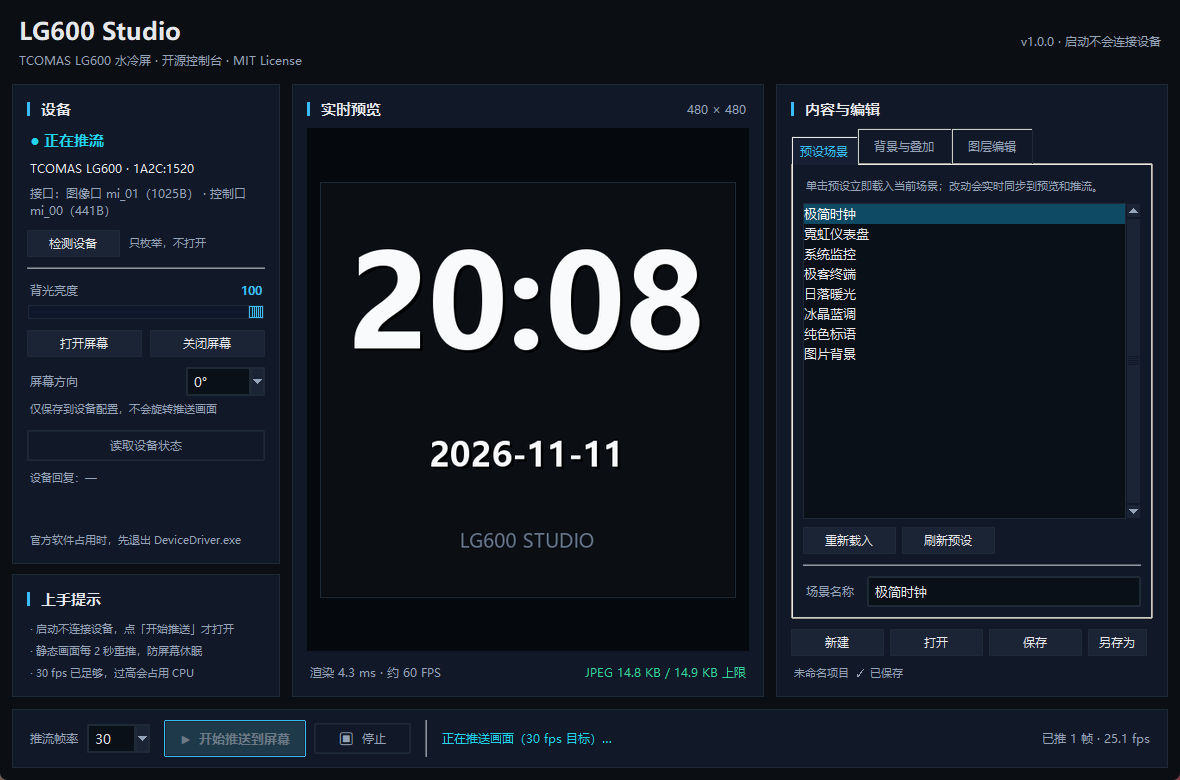
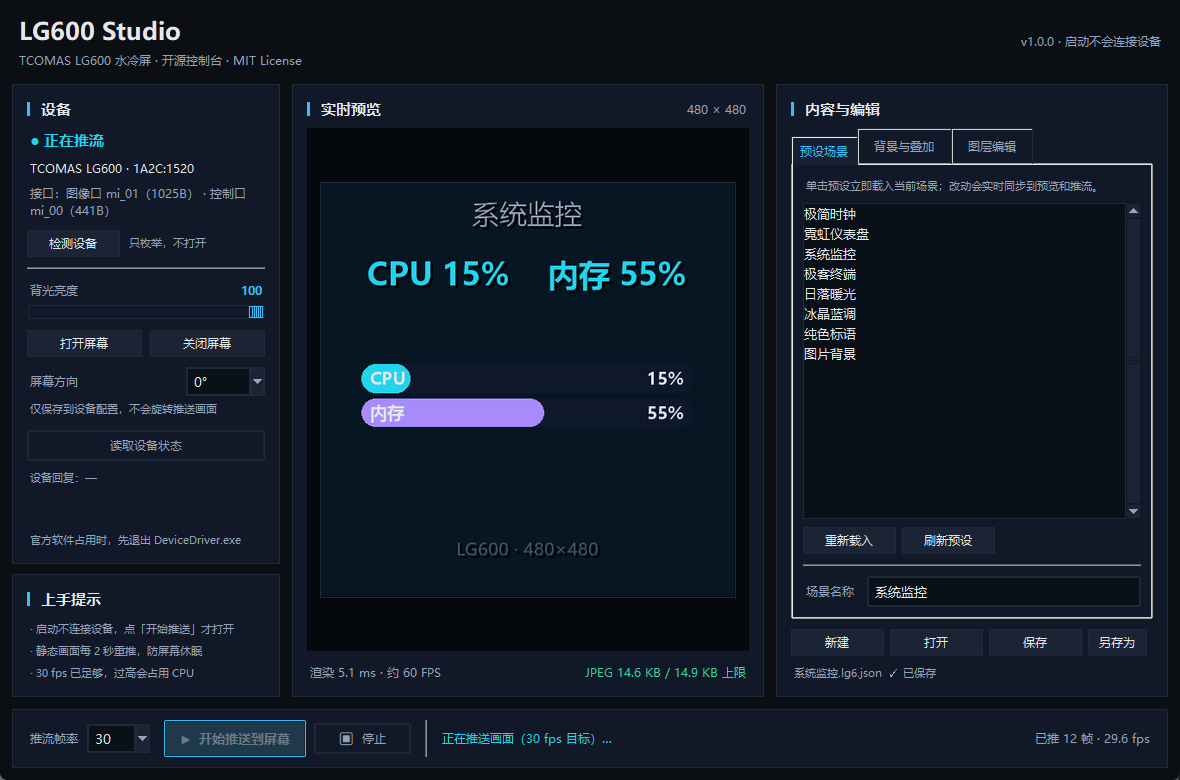
docs: 自带协议文档、示例工程与硬件自检脚本
- docs/PROTOCOL.md：把 HID 协议逆向记录搬进仓库，不需要外部笔记
- examples/：极简时钟、系统监控两个 .lg6.json 示例工程
- tools/check_device.py：无 GUI 的硬件自检（枚举 / 查询 / 推色块）
- README：exe 体积与路径、更多玩法、目录结构更新
- app.py：实际 fps 按时间窗统计，不再用启动至今的平均值
- device.py：帧恒定 15 包（不足补 0x00，与官方软件一致）；JPEG 质量下限扩到 5
- tests/test_device.py：协议分帧与编码的 10 项回归测试

diff --git a/tools/check_device.py b/tools/check_device.py
@@ -1,0 +1,65 @@
+"""Quick hardware check for the LG600 panel (no GUI, prints Chinese results).
+
+Usage::
+
+    python tools/check_device.py            # 只读检查（枚举 + 查询设置）
+    python tools/check_device.py --push 4   # 额外推 4 秒纯色测试图
+
+Run it with the official TCOMAS software closed.
+"""
+
+from __future__ import annotations
+
+import argparse
+import sys
+import time
+from pathlib import Path
+
+sys.path.insert(0, str(Path(__file__).resolve().parents[1]))
+
+from PIL import Image  # noqa: E402
+
+from lg6studio import device  # noqa: E402
+
+
+def main() -> int:
+    parser = argparse.ArgumentParser(description="LG600 屏幕硬件自检")
+    parser.add_argument("--push", type=float, default=0.0, help="推纯色测试图的秒数（0 = 不推）")
+    args = parser.parse_args()
+
+    collections = device.enumerate_devices()
+    if not collections:
+        print("未找到 TCOMAS LG600（1A2C:1520）。检查 USB 连接，或确认设备没被官方软件独占。")
+        return 1
+    for collection in collections:
+        print(
+            f"找到接口 {collection['interface']:<6} 角色 {collection['role']:<8} "
+            f"输出报文 {collection['output_len']} 字节"
+        )
+
+    print(f"官方软件在运行：{device.vendor_software_running()}")
+
+    with device.Control() as control:
+        reply = control.query()
+        quadrant = reply[5] if len(reply) > 5 else "?"
+        print(f"查询设置：收到 {len(reply)} 字节，旋转象限 = {quadrant}")
+
+    if args.push > 0:
+        jpeg = device.encode_jpeg(Image.new("RGB", (480, 480), (220, 30, 30)))
+        reports = device.frame_reports(jpeg)
+        print(f"测试帧：JPEG {len(jpeg)} 字节 → {len(reports)} 个报文")
+        written = 0
+        deadline = time.monotonic() + args.push
+        with device.Screen() as screen:
+            while time.monotonic() < deadline:
+                screen.send_jpeg(jpeg)
+                written += 1
+                time.sleep(1 / 30)
+        print(f"已推送 {written} 帧，屏幕应显示红色测试图（停止后约 10 秒回看门狗黑屏）")
+
+    print("完成。")
+    return 0
+
+
+if __name__ == "__main__":
+    raise SystemExit(main())

diff --git a/lg6studio/app.py b/lg6studio/app.py
@@ -2809,7 +2809,9 @@ class App(tk.Tk):
             screen.open()
             self._post("stream_state", "streaming")
             timeline = time.monotonic()
-            last_stats = 0.0
+            last_stats = timeline
+            stats_frames = 0
+            stats_time = timeline
             while not self._stream_stop.is_set():
                 scene = self._snapshot_scene()
                 dynamic = scene_is_dynamic(scene)
@@ -2834,8 +2836,13 @@ class App(tk.Tk):
                 now = time.monotonic()
                 if now - last_stats >= 0.4:
                     last_stats = now
-                    elapsed = max(0.001, now - self._stream_started_at)
-                    self._post("stream_stats", frame_count, frame_count / elapsed)
+                    # fps over the last window, not since the stream started, so the
+                    # number reacts to changes instead of averaging them away.
+                    window = max(0.001, now - stats_time)
+                    achieved = (frame_count - stats_frames) / window
+                    stats_frames = frame_count
+                    stats_time = now
+                    self._post("stream_stats", frame_count, achieved)
         except Exception as exc:
             error_message = friendly_device_error(exc)
             _warn_once(f"推流线程异常：{exc}")
